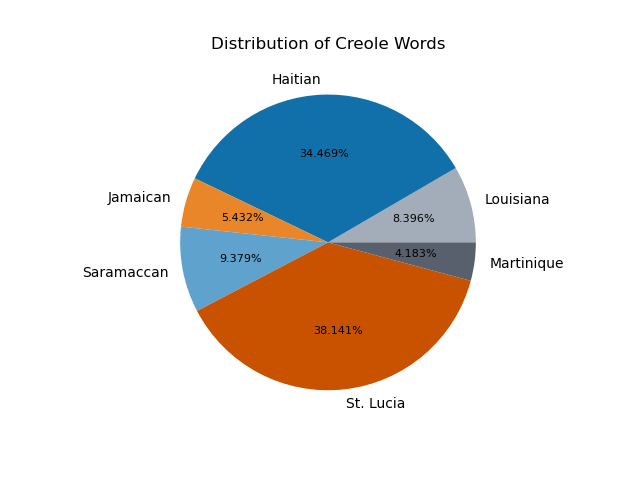
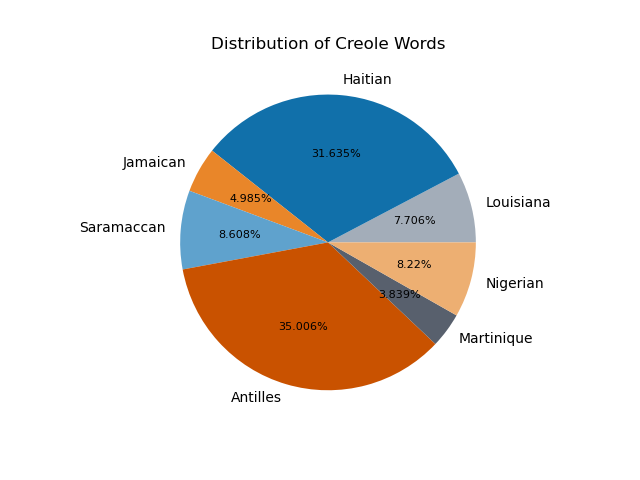
More languages

diff --git a/templates/images.html b/templates/images.html
@@ -8,6 +8,8 @@
 <img src="static/Louisiana Creole_bigram_frequency_graphs.png"style="width:1000px;height:600px;"/>
 <img src="static/Martinique Creole_bigram_frequency_graphs.png"style="width:1000px;height:600px;"/>
 <img src="static/Saramaccan Creole_bigram_frequency_graphs.png"style="width:1000px;height:600px;"/>
+<img src="static/Antilles Creole_bigram_frequency_graphs.png"style="width:1000px;height:600px;"/>
+<img src="static/Nigerian Creole_bigram_frequency_graphs.png"style="width:1000px;height:600px;"/>
 
 <h1>Letter Trigrams</h1>
 <img src="static/Haitian Creole_trigram_frequency_graphs.png"style="width:1000px;height:600px;"/>
@@ -15,4 +17,6 @@
 <img src="static/Louisiana Creole_trigram_frequency_graphs.png"style="width:1000px;height:600px;"/>
 <img src="static/Martinique Creole_trigram_frequency_graphs.png"style="width:1000px;height:600px;"/>
 <img src="static/saramaccan Creole_trigram_frequency_graphs.png"style="width:1000px;height:600px;"/>
+<img src="static/Antilles Creole_trigram_frequency_graphs.png"style="width:1000px;height:600px;"/>
+<img src="static/Nigerian Creole_trigram_frequency_graphs.png"style="width:1000px;height:600px;"/>
 
